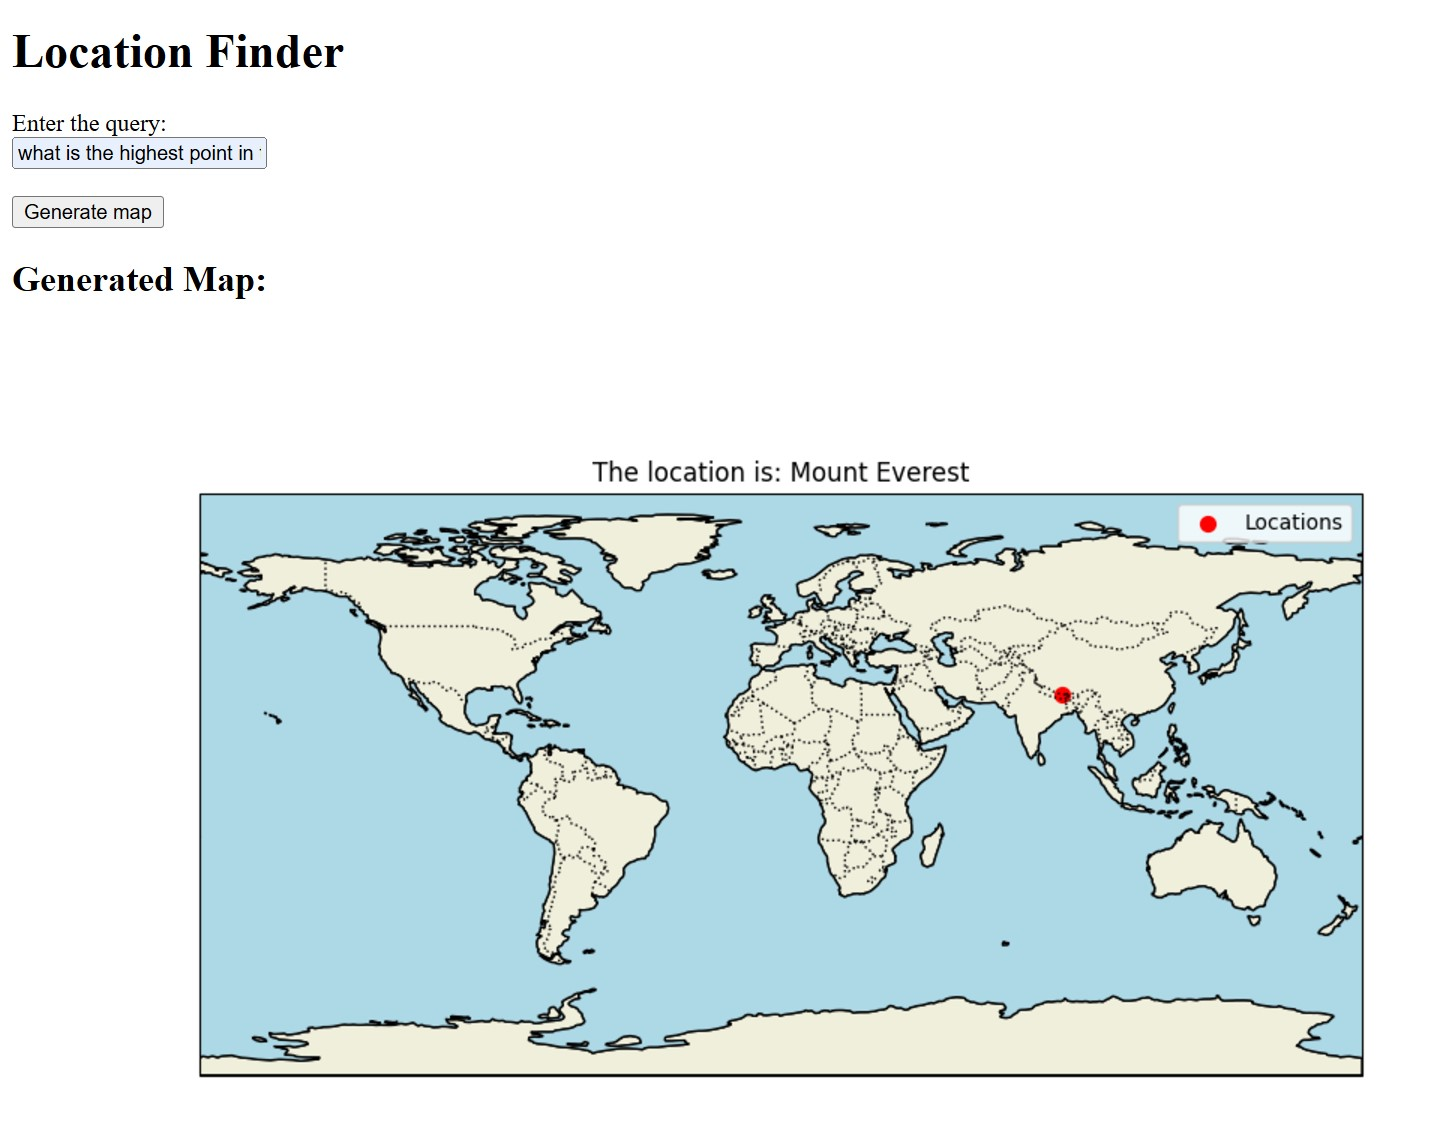
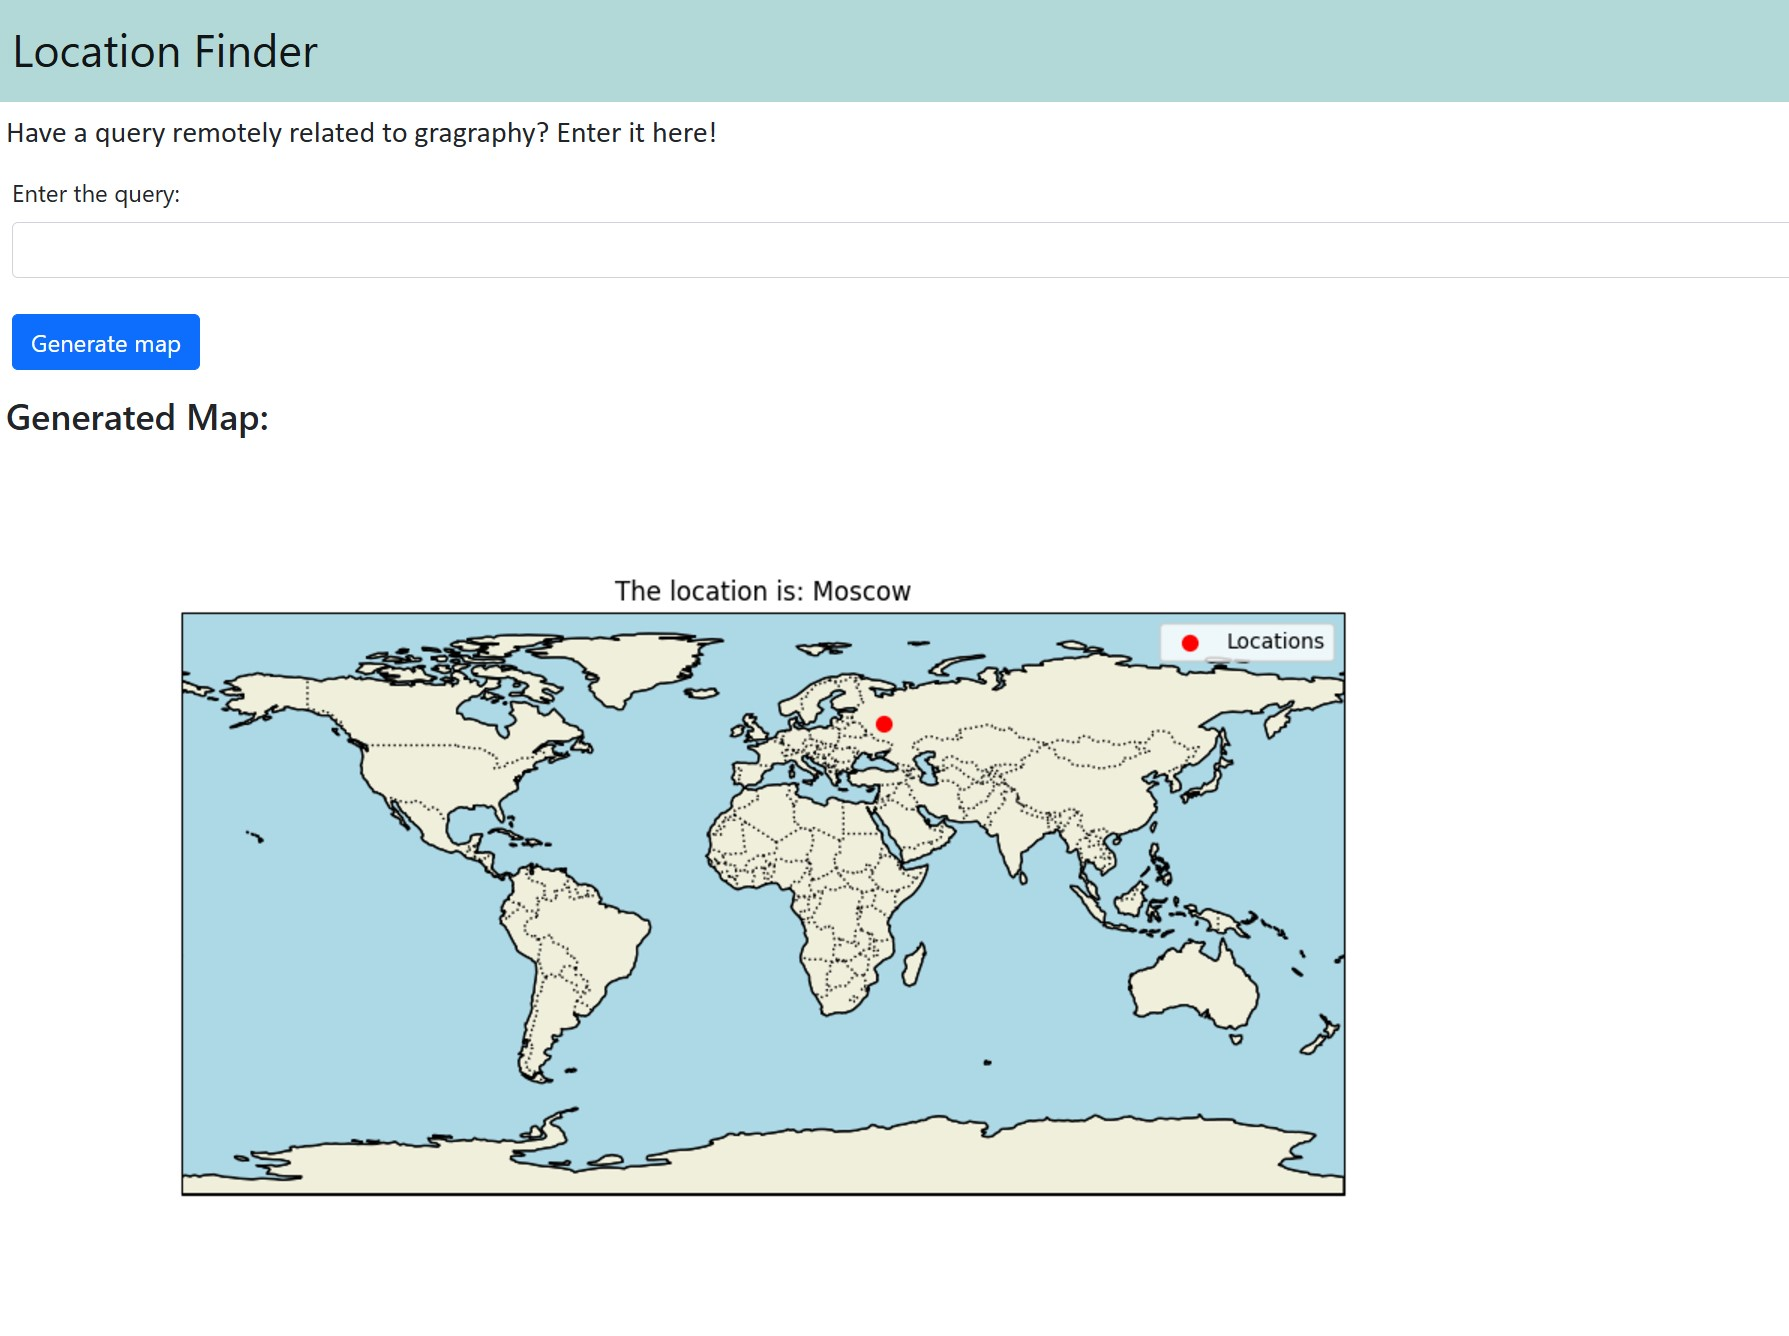
added bootstrap styles

diff --git a/templates/index.html b/templates/index.html
@@ -2,17 +2,35 @@
 <html lang="en">
 <head>
     <meta charset="UTF-8">
-    <meta name="viewport" content="width=device-width, initial-scale=1.0">
+    <link href="https://cdn.jsdelivr.net/npm/bootstrap@5.0.2/dist/css/bootstrap.min.css" rel="stylesheet" integrity="sha384-EVSTQN3/azprG1Anm3QDgpJLIm9Nao0Yz1ztcQTwFspd3yD65VohhpuuCOmLASjC" crossorigin="anonymous">
+    <meta name="viewport" content="width=device-width, initial-scale=1">
     <title> Location Finder</title>
 </head>
-<body>
-    <h1>Location Finder</h1>
-    <form method="post">
-        <label for="sentence">Enter the query:</label><br>
-        <input type="text" id="sentence" name="sentence" required><br><br>
-        <button type="submit">Generate map</button>
-    </form>
 
+<nav class="navbar navbar-expand-lg navbar-light" style="background-color: #b2d8d8;">
+    <div class="container-fluid">
+      <a class="navbar-brand" href="/" style="font-size: 30px;">Location Finder</a>
+      <button class="navbar-toggler" type="button" data-bs-toggle="collapse" data-bs-target="#navbarSupportedContent" aria-controls="navbarSupportedContent" aria-expanded="false" aria-label="Toggle navigation">
+        <span class="navbar-toggler-icon"></span>
+      </button>
+      <div class="collapse navbar-collapse" id="navbarSupportedContent">
+        <ul class="navbar-nav me-auto mb-2 mb-lg-0">
+      </div>
+    </div>
+  </nav>
+
+<body>
+    <h1 class="h5 mx-2 my-2" style="font-family: 'Calibri', sans-serif;">Have a query remotely related to gragraphy? Enter it here!</h1>
+
+    <div class="container my-3" style="margin: 0;">
+        <form method="post">
+            <label for="sentence" class="form-label">Enter the query:</label><br>
+            <input type="text" class="form-control" id="sentence" name="sentence" required>
+            <br>
+            <button type="submit"  class="btn btn-primary">Generate map</button>
+        </form>
+    </div>
+ 
     {% if error_message %}
     <div style="color: red;">
         <strong>Error:</strong> {{ error_message }}
@@ -20,7 +38,7 @@
     {% endif %}
 
     {% if image_url %}
-        <h2>Generated Map:</h2>
+        <h4 class="mx-2">Generated Map:</h4>
         <img src="{{ image_url }}" alt="Generated Plot">
     {% endif %}
 </body>
